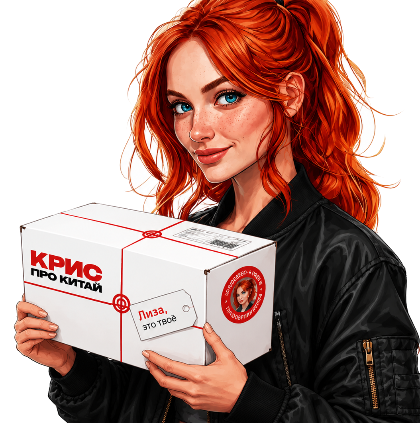
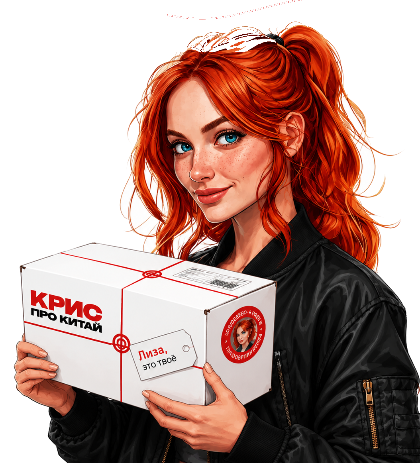
Меньше красного и целая голова у маскота
Интерфейс чёрно-белый, красный только у главной кнопки, акцента на главной, скидок, бейджей и текущего шага.
Светло-красный текст на тёмных карточках стал белым, коробки на полке и горшок — белые с красной нитью.
Маскот вырезан заново: голова целиком, без остатков надписи.

diff --git a/index.html b/index.html
@@ -16,10 +16,10 @@
 <script src="https://telegram.org/js/telegram-web-app.js"></script>
 <style>
 :root{
-  --teal:#c81717; --teal-d:#a51212; --aqua:#fbeded; --aqua-2:#fdf6f6;
+  --teal:#121212; --teal-d:#121212; --aqua:#f3f1f1; --aqua-2:#f8f7f7; --red:#c81717; --red-dk:#ff5d52;
   --ink:#121212; --ink-2:#3d3535; --mute:#7a6f6f; --line:#efe6e6;
   --orange:#c81717; --paper:#fff; --bg:#f8f5f5;
-  --grad:linear-gradient(90deg,#c81717,#c81717);
+  --grad:linear-gradient(90deg,#121212,#121212);
   --r:18px; --safe-b:env(safe-area-inset-bottom,0px);
   --dela:Unbounded,"Arial Black",Arial,sans-serif;
   --body:"Golos Text","Segoe UI",Arial,sans-serif;
@@ -46,25 +46,25 @@ a{color:inherit;text-decoration:none}
 .dela{font-family:var(--dela);font-weight:800}
 .h1{font-family:var(--dela);font-weight:900;font-size:21px;line-height:1.12;letter-spacing:-.01em;text-transform:uppercase;margin:0}
 .h2{font-family:var(--dela);font-weight:800;font-size:14px;line-height:1.15;text-transform:uppercase;margin:0}
-.hand{font-family:var(--dela);font-weight:800;font-size:12px;letter-spacing:.1em;text-transform:uppercase;color:var(--teal);line-height:1.3}
-.grad{background:var(--grad);-webkit-background-clip:text;background-clip:text;color:transparent}
+.hand{font-family:var(--dela);font-weight:800;font-size:12px;letter-spacing:.1em;text-transform:uppercase;color:var(--mute);line-height:1.3}
+.grad{color:var(--red)}
 .small{font-size:12px;color:var(--mute);font-weight:700}
 .num{font-variant-numeric:tabular-nums}
 .sec{display:flex;align-items:center;justify-content:space-between;margin:28px 0 12px;gap:10px}
 .sec .more{font-size:13px;font-weight:800;color:var(--teal-d);white-space:nowrap}
-.dots{position:absolute;pointer-events:none;background-image:radial-gradient(circle,rgba(200,23,23,.32) 1.2px,transparent 1.6px);background-size:7px 7px;-webkit-mask-image:radial-gradient(ellipse at center,#000,transparent 70%);mask-image:radial-gradient(ellipse at center,#000,transparent 70%)}
+.dots{position:absolute;pointer-events:none;background-image:radial-gradient(circle,rgba(18,18,18,.13) 1.2px,transparent 1.6px);background-size:7px 7px;-webkit-mask-image:radial-gradient(ellipse at center,#000,transparent 70%);mask-image:radial-gradient(ellipse at center,#000,transparent 70%)}
 
 /* top */
 .top{display:flex;align-items:center;justify-content:space-between;padding:14px 0 8px;gap:10px}
 .logo{height:24px;width:auto}
-.ava{width:40px;height:40px;border-radius:50%;overflow:hidden;border:2px solid var(--teal);flex:0 0 40px;background:var(--aqua)}
+.ava{width:40px;height:40px;border-radius:50%;overflow:hidden;border:2px solid var(--red);flex:0 0 40px;background:var(--aqua)}
 .ava img{width:100%;height:100%;object-fit:cover}
 
 /* buttons */
 .btn{display:inline-flex;align-items:center;justify-content:center;gap:8px;min-height:48px;padding:0 20px;border-radius:999px;font-weight:900;font-size:15px;background:var(--ink);color:#fff;white-space:nowrap;transition:transform .12s}
 .btn:active{transform:scale(.97)}
 .btn.ghost{background:#fff;color:var(--ink);box-shadow:inset 0 0 0 2px var(--ink)}
-.btn.teal{background:var(--grad);color:#ffffff}
+.btn.teal{background:var(--red);color:#fff}
 .btn.sm{min-height:38px;padding:0 15px;font-size:13px}
 .btn.block{width:100%}
 .btn[disabled]{opacity:.35;pointer-events:none}
@@ -78,13 +78,13 @@ a{color:inherit;text-decoration:none}
 /* gift banner */
 .gift{position:relative;overflow:hidden;margin-top:12px;border-radius:var(--r);background:var(--ink);color:#fff;padding:16px;display:flex;align-items:center;gap:14px;width:100%;text-align:left}
 .gift .dots{right:-40px;top:-50px;width:190px;height:190px;opacity:.45}
-.gift .ic{width:54px;height:54px;flex:0 0 54px;border-radius:50%;background:var(--grad);display:grid;place-items:center;position:relative}
+.gift .ic{width:54px;height:54px;flex:0 0 54px;border-radius:50%;background:var(--red);display:grid;place-items:center;position:relative}
 .gift .ic svg{width:30px;height:30px}
-.gift .ic::after{content:"";position:absolute;inset:-5px;border-radius:50%;border:2px solid var(--teal);animation:ring 1.8s ease-out infinite}
+.gift .ic::after{content:"";position:absolute;inset:-5px;border-radius:50%;border:2px solid var(--red);animation:ring 1.8s ease-out infinite}
 @keyframes ring{from{opacity:.9;transform:scale(.9)}to{opacity:0;transform:scale(1.35)}}
 .gift .t{flex:1;min-width:0;position:relative}
 .gift .t b{font-family:var(--dela);font-weight:800;font-size:13px;display:block;text-transform:uppercase;line-height:1.15}
-.gift .t span{font-size:12px;color:#ff9a92}
+.gift .t span{font-size:12px;color:rgba(255,255,255,.72)}
 
 /* chips & cats */
 .chips{display:flex;gap:8px;overflow-x:auto;padding:2px 0 4px;scrollbar-width:none}
@@ -161,7 +161,7 @@ a{color:inherit;text-decoration:none}
 .sizes button{padding:9px 0 8px;border-radius:12px;background:var(--bg);display:grid;gap:1px}
 .sizes button b{font-weight:900;font-size:15px}
 .sizes button small{font-size:11px;font-weight:800;color:var(--mute)}
-.sizes button.on{background:var(--ink);color:#fff}.sizes button.on small{color:#ff9a92}
+.sizes button.on{background:var(--ink);color:#fff}.sizes button.on small{color:rgba(255,255,255,.72)}
 .sizes button.no{opacity:.4;text-decoration:line-through;pointer-events:none}
 .specs{display:flex;flex-wrap:wrap;gap:6px;margin-top:12px}
 .specs span{padding:6px 10px;border-radius:999px;background:var(--bg);font-size:12px;font-weight:800;color:var(--ink-2)}
@@ -182,9 +182,9 @@ th{font-size:11px;color:var(--mute);font-weight:900}
 .coupon::before,.coupon::after{content:"";position:absolute;top:50%;width:18px;height:18px;margin-top:-9px;border-radius:50%;background:#fff}
 .coupon::before{left:-9px}.coupon::after{right:-9px}
 .coupon .v{font-family:var(--dela);font-weight:800;font-size:18px;color:var(--ink);white-space:nowrap}
-.coupon .t{flex:1;min-width:0;font-size:12px;font-weight:800;color:#a51212}
+.coupon .t{flex:1;min-width:0;font-size:12px;font-weight:800;color:var(--mute)}
 .coupon .t b{display:block;font-size:14px;color:var(--ink);font-weight:900}
-.coupon.sel{background:var(--ink);color:#fff}.coupon.sel .v,.coupon.sel .t b{color:#fff}.coupon.sel .t{color:#ff9a92}
+.coupon.sel{background:var(--ink);color:#fff}.coupon.sel .v,.coupon.sel .t b{color:#fff}.coupon.sel .t{color:rgba(255,255,255,.72)}
 .coupon.dim{opacity:.45}
 
 /* wheel */
@@ -257,7 +257,7 @@ nav .badge{position:absolute;top:1px;right:calc(50% - 21px);min-width:17px;heigh
 .gal img{object-fit:contain}
 .item .th img{object-fit:contain;background:#fff}
 .mylink{display:flex;align-items:center;justify-content:space-between;gap:10px;width:100%;padding:11px 13px;border-radius:12px;background:rgba(255,255,255,.1);color:#fff;text-align:left}
-.mylink span{font-size:12px;font-weight:700;overflow:hidden;text-overflow:ellipsis;white-space:nowrap;color:#ff9a92}
+.mylink span{font-size:12px;font-weight:700;overflow:hidden;text-overflow:ellipsis;white-space:nowrap;color:rgba(255,255,255,.72)}
 .mylink b{font-size:12px;font-weight:900;white-space:nowrap}
 [hidden]{display:none!important}   /* иначе .chips с display:flex показывает скрытую «Вся одежда» в аксессуарах */
 .look{flex:0 0 47%;display:grid;gap:7px;align-content:start;text-align:left}
@@ -326,31 +326,31 @@ nav .badge{position:absolute;top:1px;right:calc(50% - 21px);min-width:17px;heigh
 .hcard .nm{min-width:0}.hcard .nm b{display:block;font-weight:900;font-size:15px;line-height:1.25}
 .hcard .nm span{display:block;font-size:12px;font-weight:700;color:#aab4b6;margin-top:3px}
 .hcard .seg8{display:grid;grid-template-columns:repeat(8,1fr);gap:4px}
-.hcard .seg8 i{height:5px;border-radius:3px;background:#3a4043}.hcard .seg8 i.on{background:var(--teal)}
+.hcard .seg8 i{height:5px;border-radius:3px;background:#3a4043}.hcard .seg8 i.on{background:var(--red)}
 .hcard .st{display:flex;align-items:center;justify-content:space-between;gap:10px}
 .hcard .st b{display:block;font-weight:900;font-size:15px}.hcard .st span{display:block;font-size:12px;font-weight:700;color:#aab4b6;margin-top:2px}
 .hcard .note{font-size:13px;font-weight:700;color:#d5dcdd;line-height:1.4}
 .hcard .foot{display:flex;align-items:center;justify-content:space-between;gap:10px;border-top:1px solid #2c3133;padding-top:12px;font-size:13px;font-weight:700;color:#d5dcdd}
-.hcard .foot b{color:#ff7a70;font-weight:900}
+.hcard .foot b{color:#fff;font-weight:900}
 .hcard .big{font-family:var(--dela);font-weight:900;font-size:44px;line-height:1;letter-spacing:-.02em}
 .hcard .btn.light{background:#fff;color:var(--ink);min-height:52px}
 .hcard .link-w{background:none;color:#aab4b6;font-weight:800;font-size:13px;justify-self:center;padding:0}
 /* карточка заказа: точки в углу как у шапки и плашки закупки, наклонённое фото на белой плитке, размер и номер ярлычками, сумма крупно */
 .hcard{position:relative;overflow:hidden}
-.hcard>.dots{position:absolute;left:auto;bottom:auto;right:-46px;top:-56px;width:190px;height:190px;pointer-events:none;opacity:.5;background-image:radial-gradient(circle,rgba(255,122,112,.55) 1.3px,transparent 1.7px);background-size:10px 10px;-webkit-mask-image:radial-gradient(circle at 70% 30%,#000 0,transparent 68%);mask-image:radial-gradient(circle at 70% 30%,#000 0,transparent 68%)}
+.hcard>.dots{position:absolute;left:auto;bottom:auto;right:-46px;top:-56px;width:190px;height:190px;pointer-events:none;opacity:.5;background-image:radial-gradient(circle,rgba(255,255,255,.28) 1.3px,transparent 1.7px);background-size:10px 10px;-webkit-mask-image:radial-gradient(circle at 70% 30%,#000 0,transparent 68%);mask-image:radial-gradient(circle at 70% 30%,#000 0,transparent 68%)}
 .hcard>:not(.dots){position:relative}
 .hcard .row1 .ph{width:72px;height:72px;flex:0 0 72px;background:#fff;transform:rotate(-4deg);box-shadow:0 10px 18px -12px rgba(0,0,0,.8)}
 .hcard .tags{display:flex;flex-wrap:wrap;gap:6px;margin-top:7px}
 .hcard .tags i{font-style:normal;padding:3px 9px;border-radius:999px;background:#2a3033;color:#d5dcdd;font-size:11px;font-weight:800;line-height:1.35}
 .hcard .st .sum{margin-top:0;font-family:var(--dela);font-weight:900;font-size:19px;line-height:1;color:#fff;white-space:nowrap}   /* сильнее общего .hcard .st span — иначе сумма серая и мелкая */
-.hcard .seg8 i.on{background:var(--grad)}
+.hcard .seg8 i.on{background:var(--red)}
 .hcard .btn.light .ico{width:18px;height:18px;margin-right:8px;vertical-align:-3px}
 /* второстепенные действия заказа — одной строкой под тонкой линией, а не столбиком ссылок */
 .hcard .acts{display:flex;justify-content:space-between;gap:12px;margin-top:-2px;padding-top:12px;border-top:1px solid #2c3133}
 .hcard .acts button{background:none;border:0;padding:2px 0;font:inherit;font-size:13px;font-weight:800;color:#aab4b6;cursor:pointer}
 .hcard .acts button:hover{color:#fff}
 .pill-o{padding:5px 10px;border-radius:999px;background:var(--orange);color:#fff;font-weight:900;font-size:12px;white-space:nowrap}
-.chip-drops{display:inline-flex;align-items:center;gap:6px;padding:8px 12px;border-radius:999px;border:1.5px solid #3a4043;color:#ff7a70;font-weight:900;font-size:12px;white-space:nowrap}
+.chip-drops{display:inline-flex;align-items:center;gap:6px;padding:8px 12px;border-radius:999px;border:1.5px solid #3a4043;color:#fff;font-weight:900;font-size:12px;white-space:nowrap}
 .ccard{margin-top:12px;display:flex;align-items:center;gap:14px;padding:14px 14px 14px 18px;border-radius:18px;background:#fff;box-shadow:0 0 0 1.5px var(--line);position:relative}
 .ccard::before{content:"";position:absolute;left:0;top:14px;bottom:14px;width:4px;border-radius:0 4px 4px 0;background:var(--orange)}
 .ccard b{display:block;font-weight:900;font-size:14px;line-height:1.25}
@@ -488,7 +488,7 @@ nav .badge{position:absolute;top:1px;right:calc(50% - 21px);min-width:17px;heigh
 .vnudge{position:fixed;left:50%;transform:translateX(-50%);bottom:calc(84px + var(--safe-b));z-index:15;width:min(448px,calc(100% - 24px));display:flex;align-items:center;gap:10px;padding:12px 10px 12px 16px;border-radius:18px;background:var(--ink);color:#fff;box-shadow:0 12px 30px -10px rgba(0,0,0,.45)}
 .vnudge .t{flex:1;min-width:0;display:grid;gap:2px}
 .vnudge .t b{font-weight:900;font-size:14px}
-.vnudge .t span{font-size:12px;font-weight:700;color:#ff9a92}
+.vnudge .t span{font-size:12px;font-weight:700;color:rgba(255,255,255,.72)}
 .vnudge .x{width:32px;height:32px;flex:0 0 32px;border-radius:50%;background:#2b3034;color:#fff;font-size:18px;line-height:1}
 .coupon .t .left{color:var(--orange)}
 .orow{display:flex;align-items:center;gap:10px}
@@ -498,7 +498,7 @@ nav .badge{position:absolute;top:1px;right:calc(50% - 21px);min-width:17px;heigh
 .ot span{display:block;font-size:12px;font-weight:700;color:var(--mute);margin-top:2px}
 .obar{display:grid;grid-template-columns:repeat(8,1fr);gap:3px;margin-top:12px}.obar i{height:4px;border-radius:2px;background:#dfe7e8}.obar i.on{background:var(--teal)}
 .ostage{margin-top:6px;font-size:12px;font-weight:800;color:var(--ink-2)}
-.status.go{background:var(--aqua);color:#a51212}
+.status.go{background:var(--aqua);color:var(--ink)}
 /* полка: светлая ниша витрины с подсветкой сверху, белые подиумы с табличками (месяц или «+»); пустые места — пунктирные силуэты */
 .cap .cap-r{display:flex;align-items:center;gap:8px}
 .rack{position:relative;overflow-x:hidden;overflow-y:auto;max-height:300px;padding:7px;border-radius:24px;background:linear-gradient(180deg,#f5f1f1,#e7dede);box-shadow:inset 0 1px 0 #fff,0 14px 26px -18px rgba(50,25,25,.45);scrollbar-width:none}
@@ -521,25 +521,25 @@ nav .badge{position:absolute;top:1px;right:calc(50% - 21px);min-width:17px;heigh
 .ped span{flex:1;min-width:0;height:17px;border-radius:5px;background:#fff;box-shadow:0 1px 2px rgba(40,20,20,.12);display:flex;align-items:center;justify-content:center;gap:4px;font-size:10px;font-weight:800;line-height:1;color:#7f7272;white-space:nowrap}
 .ped span svg{width:11px;height:11px;flex:0 0 11px}
 .thing.ghost .ped span{font-size:15px;font-weight:500;color:#8a9ca0}
-.thing .spark{position:absolute;z-index:2;left:-1px;top:4px;width:22px;height:22px;color:var(--teal);opacity:0;pointer-events:none}
+.thing .spark{position:absolute;z-index:2;left:-1px;top:4px;width:22px;height:22px;color:var(--red);opacity:0;pointer-events:none}
 .thing.last .spark{opacity:1}
 .thing.pop .obj{animation:pop .45s cubic-bezier(.2,1.4,.4,1) both}
 .thing.pop .spark{animation:spark .5s .25s ease-out both}
 @keyframes spark{0%{opacity:0;transform:scale(.4) rotate(-20deg)}100%{opacity:1;transform:none}}
 .shelf-line{margin-top:8px;white-space:normal}
 @media (prefers-reduced-motion:reduce){.thing.pop .obj,.thing.pop .spark{animation:none;opacity:1}}
-.status.wait{background:#fff1e6;color:var(--orange)}
+.status.wait{background:#fbeded;color:var(--orange)}
 /* полка: полученные заказы коробками */
 .shelf{padding:14px;border-radius:var(--r);background:var(--ink);color:#fff;display:grid;grid-template-columns:minmax(0,1fr);gap:10px;margin-top:12px}
 .shelf .top{display:flex;align-items:baseline;gap:10px}.shelf .top b{font-family:var(--dela);font-weight:800;font-size:17px;text-transform:uppercase}
-.shelf .top span{font-weight:800;font-size:13px;color:#ff9a92;margin-left:auto;text-align:right}
-.shelf .nx{font-weight:800;font-size:13px;color:#ff9a92}
+.shelf .top span{font-weight:800;font-size:13px;color:rgba(255,255,255,.72);margin-left:auto;text-align:right}
+.shelf .nx{font-weight:800;font-size:13px;color:rgba(255,255,255,.72)}
 .shelf .row{display:flex;gap:8px;flex-wrap:wrap}.shelf .row .btn{background:#fff;color:var(--ink)}
 .boxes{display:flex;gap:6px;overflow-x:auto;padding:6px 2px 8px;border-bottom:5px solid #3a4043;scrollbar-width:none}
 .boxes::-webkit-scrollbar{display:none}
 .boxes .box{flex:0 0 72px;display:grid;gap:2px;justify-items:center;background:none;color:#fff;border:0;padding:0;box-shadow:none;min-height:0;border-radius:0}
 .boxes .box svg{width:72px;height:64px;display:block}
-.boxes .box span{font-weight:800;font-size:11px;color:#ff9a92;min-height:14px}
+.boxes .box span{font-weight:800;font-size:11px;color:rgba(255,255,255,.72);min-height:14px}
 /* путь посылки */
 .jr{display:grid;margin-top:14px}
 .jr div{display:flex;gap:10px;align-items:center;font-weight:800;font-size:13px;color:var(--mute);padding:4px 0}
@@ -589,7 +589,7 @@ nav .badge{position:absolute;top:1px;right:calc(50% - 21px);min-width:17px;heigh
 .rule{margin-top:12px;font-weight:700;font-size:13px;line-height:1.4;color:var(--ink-2)}
 .opts{display:grid;grid-template-columns:1fr 1fr;gap:8px;margin-top:12px}
 .opts button{min-height:56px;border-radius:14px;background:var(--bg);font-family:var(--dela);font-weight:800;font-size:15px}
-.opts button.right{background:var(--grad);color:#ffffff}
+.opts button.right{background:#2fb36b;color:#fff}
 .opts button.wrong{background:var(--ink);color:#fff;opacity:.55}
 .hero-card{display:flex;align-items:center;gap:14px;padding:14px;border-radius:var(--r);background:#fff;box-shadow:0 0 0 1.5px var(--line)}
 .hero-card .pic{width:72px;height:72px;flex:0 0 72px;border-radius:50%;overflow:hidden;border:2px solid var(--ink)}
@@ -615,7 +615,7 @@ nav .badge{position:absolute;top:1px;right:calc(50% - 21px);min-width:17px;heigh
 .trk{margin-top:12px;border-radius:var(--r);background:#fff;box-shadow:0 0 0 1.5px var(--line);padding:16px}
 .trk-h{display:flex;align-items:center;justify-content:space-between;gap:8px;flex-wrap:wrap}
 .trk-h b{font-family:var(--dela);font-weight:800;font-size:15px;letter-spacing:.02em}
-.trk-pill{padding:6px 11px;border-radius:999px;background:var(--aqua);color:#a51212;font-weight:900;font-size:12px;white-space:nowrap}
+.trk-pill{padding:6px 11px;border-radius:999px;background:var(--aqua);color:var(--ink);font-weight:900;font-size:12px;white-space:nowrap}
 .trk-pill.ok{background:#2fb36b;color:#fff}
 .trk-bar{display:flex;align-items:center;margin:18px 2px 0}
 .trk-bar i{flex:0 0 12px;height:12px;border-radius:50%;background:var(--line)}
@@ -713,7 +713,7 @@ nav .badge{position:absolute;top:1px;right:calc(50% - 21px);min-width:17px;heigh
     <button class="x" onclick="$('vibe-nudge').hidden=true" aria-label="Закрыть">×</button>
   </div>
   <div class="box" style="margin-top:20px;background:var(--aqua);border:0">
-    <span class="hand" style="color:#a51212">нет нужной вещи в каталоге?</span>
+    <span class="hand">нет нужной вещи в каталоге?</span>
     <div class="h2" style="margin:6px 0 14px">Привезу любую вещь с Poizon</div>
     <button class="btn" onclick="openCustom()">Заказ по ссылке</button>
   </div>
@@ -804,8 +804,8 @@ nav .badge{position:absolute;top:1px;right:calc(50% - 21px);min-width:17px;heigh
 
   <div class="cap" id="ref"><span>Приведи друга</span></div>
   <div class="tile dark" style="width:100%;flex:none;min-height:0;gap:14px">
-    <div style="font-weight:800;font-size:15px;line-height:1.35">Другу <span class="dela" style="color:#ff7a70">−500 ₽</span> на первый заказ, вам <span class="dela" style="color:#ff7a70">−500 ₽</span> на следующий</div>
-    <div style="font-weight:700;font-size:13px;color:#ff9a92">Ссылка только ваша. Другу подарок, если он пришёл впервые, на заказ от 10 000 ₽. Ваши −500 ₽ придут сами, когда друг оплатит заказ</div>
+    <div style="font-weight:800;font-size:15px;line-height:1.35">Другу <span class="dela" style="color:var(--red-dk)">−500 ₽</span> на первый заказ, вам <span class="dela" style="color:var(--red-dk)">−500 ₽</span> на следующий</div>
+    <div style="font-weight:700;font-size:13px;color:rgba(255,255,255,.72)">Ссылка только ваша. Другу подарок, если он пришёл впервые, на заказ от 10 000 ₽. Ваши −500 ₽ придут сами, когда друг оплатит заказ</div>
     <div id="my-link"></div>
     <button class="btn teal" onclick="shareRef()">Отправить ссылку другу</button>
   </div>
@@ -1541,7 +1541,7 @@ function renderGiftBanner(){
 function wheelSVG(){
   const V = CFG.wheel, n = V.length, cx = 150, cy = 150, R = 124, step = 360/n;
   const top = Math.max(...V);
-  const fills = ['#c81717','#ffffff','#121212','#ff7a70','#c81717','#ffffff','#121212','#ff7a70'];
+  const fills = ['#121212','#ffffff','#c81717','#ece7e7','#121212','#ffffff','#ece7e7','#ffffff'];
   const pt = (a,r)=>[cx + r*Math.sin(a*Math.PI/180), cy - r*Math.cos(a*Math.PI/180)];
   let seg = '', txt = '';
   V.forEach((v,i)=>{
@@ -2196,12 +2196,12 @@ const boxDate = (o, long) => o.doneAt ? new Date(o.doneAt).toLocaleDateString('r
 /* коробка POIZON: у каждой свой градиент, чтобы рисовалась и на скрытом экране */
 function boxSVG(label, on){
   const id = 'bx' + Math.random().toString(36).slice(2,8);
-  return `<svg viewBox="0 0 74 66" aria-hidden="true"><defs><linearGradient id="${id}" x1="0" x2="1"><stop offset="0" stop-color="#f08a84"/><stop offset=".45" stop-color="#d6332a"/><stop offset="1" stop-color="#a51212"/></linearGradient></defs>
+  return `<svg viewBox="0 0 74 66" aria-hidden="true"><defs><linearGradient id="${id}" x1="0" x2="1"><stop offset="0" stop-color="#ffffff"/><stop offset=".55" stop-color="#f1eded"/><stop offset="1" stop-color="#d9d1d1"/></linearGradient></defs>
     <ellipse cx="37" cy="62" rx="30" ry="3" fill="#000" opacity=".3"/>
     <path d="M10 22h54l-3 35c-.3 3-2.5 5-5.5 5h-37c-3 0-5.2-2-5.5-5z" fill="${on ? `url(#${id})` : '#3b4144'}"/>
     <rect x="6" y="13" width="62" height="12" rx="4" fill="${on ? '#2b3034' : '#32383b'}"/>
-    <rect x="32" y="13" width="10" height="49" fill="#fff" opacity="${on ? '.22' : '.05'}"/>
-    ${label !== '' ? `<text x="37" y="48" text-anchor="middle" font-family="Unbounded,Arial Black,sans-serif" font-weight="800" font-size="14" fill="#fff">${label}</text>` : ''}</svg>`;
+    <rect x="34.5" y="13" width="5" height="49" fill="${on ? '#c81717' : '#fff'}" opacity="${on ? '1' : '.05'}"/>
+    ${label !== '' ? `<text x="37" y="48" text-anchor="middle" font-family="Unbounded,Arial Black,sans-serif" font-weight="800" font-size="14" fill="${on ? '#121212' : '#fff'}">${label}</text>` : ''}</svg>`;
 }
 /* полка в профиле — тихая строка внизу: коробки по месяцам, «эта в пути» и что откроет следующая */
 /* силуэты пустых мест: generic-формы без деталей, по кругу — кроссовок, ботинок, сумка, флакон */
@@ -2416,7 +2416,7 @@ function plantSVG(s, tile){
     <path d="M92 160q8 10 16 0z" fill="#1d2b2e"/><path d="M96 164q4 3 8 0z" fill="#f6a9b6"/>
     <ellipse cx="76" cy="161" rx="6" ry="3.5" fill="#f6a9b6" opacity=".85"/><ellipse cx="124" cy="161" rx="6" ry="3.5" fill="#f6a9b6" opacity=".85"/></g>`;
   const defs = `<defs><radialGradient id="gl" cx="50%" cy="55%" r="50%"><stop offset="0" stop-color="#fff1cf" stop-opacity=".95"/><stop offset=".7" stop-color="#fff6e3" stop-opacity=".5"/><stop offset="1" stop-color="#fff" stop-opacity="0"/></radialGradient>
-    <linearGradient id="pb" x1="0" x2="1"><stop offset="0" stop-color="#f08a84"/><stop offset=".45" stop-color="#d6332a"/><stop offset="1" stop-color="#a51212"/></linearGradient>
+    <linearGradient id="pb" x1="0" x2="1"><stop offset="0" stop-color="#ffffff"/><stop offset=".55" stop-color="#f1eded"/><stop offset="1" stop-color="#d9d1d1"/></linearGradient>
     <linearGradient id="rm" x1="0" x2="0" y1="0" y2="1"><stop offset="0" stop-color="#4a4f55"/><stop offset="1" stop-color="#23272b"/></linearGradient>
     <radialGradient id="so" cx="50%" cy="40%" r="60%"><stop offset="0" stop-color="#a5673f"/><stop offset="1" stop-color="#5e3a22"/></radialGradient>
     <linearGradient id="lf" x1="0" x2="1" y1="1" y2="0"><stop offset="0" stop-color="#5aa832"/><stop offset="1" stop-color="#a6d95a"/></linearGradient>
